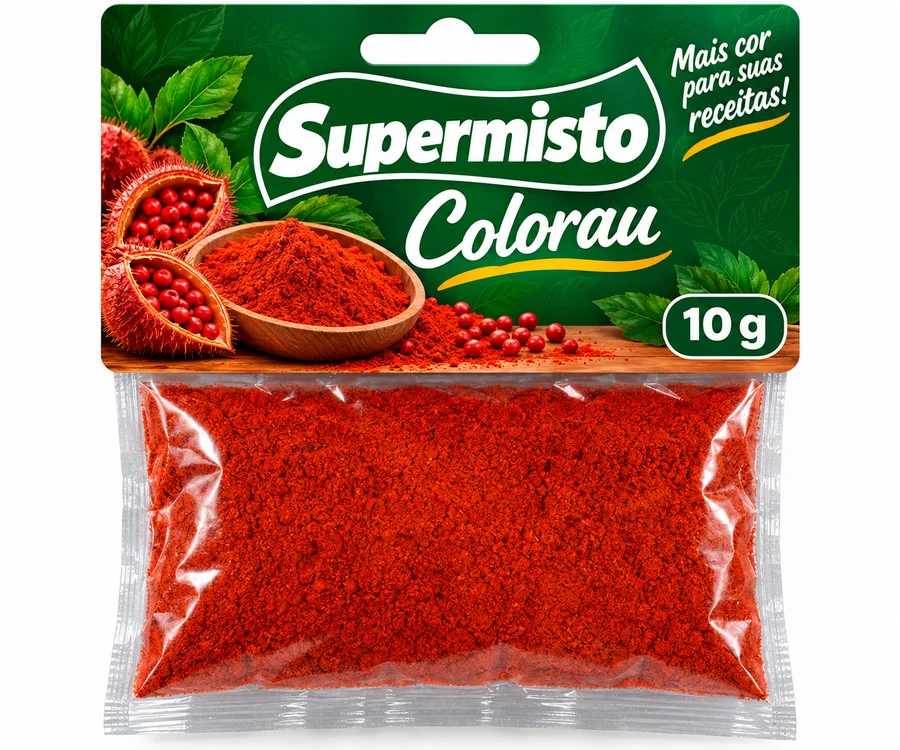
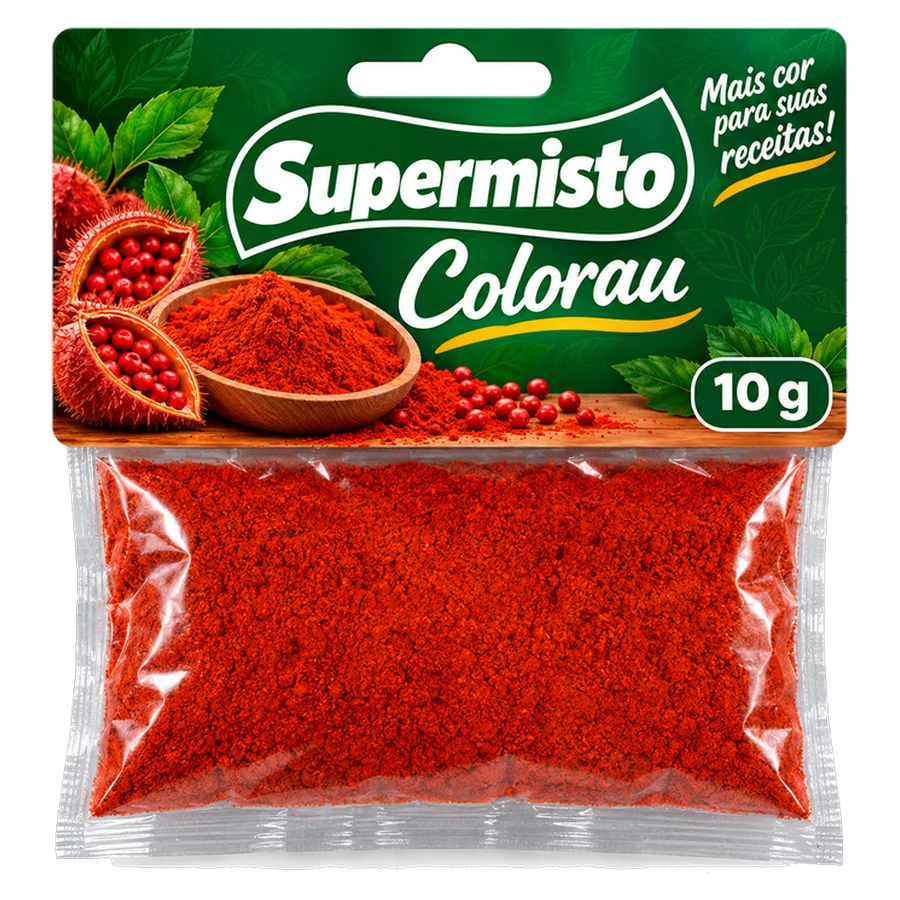
Site Supermisto: fotos dos pacotes no mesmo tamanho
Claude-Session: https://claude.ai/code/session_01UfbvQyVUMZpEq6zNbbPKYT

diff --git a/SITE-SUPERMISTO/estilo.css b/SITE-SUPERMISTO/estilo.css
@@ -708,3 +708,11 @@ body{background:#fff}
   .modal-img .foto-prod,.modal-img svg{max-height:100%;height:auto;width:auto;max-width:100%;border-radius:12px;padding:0}
   .modal-nota{display:none}
 }
+/* fotos reais: mesmo tamanho para todos os pacotes */
+.prod-img:has(.foto-prod){background:radial-gradient(circle at 50% 60%,#FFF4E6 0%,#F4F8F5 72%)}
+.prod-img .foto-prod{padding:10px;background:transparent;object-fit:contain;filter:drop-shadow(0 10px 14px rgba(0,0,0,.18))}
+.modal-img:has(.foto-prod){background:radial-gradient(circle at 50% 55%,#FFF4E6 0%,#F4F8F5 75%)}
+.modal-img .foto-prod{background:transparent;filter:drop-shadow(0 14px 18px rgba(0,0,0,.2))}
+@media (max-width:520px){.prod-img .foto-prod{padding:6px}}
+.prod-img .foto-prod{padding:34px 12px 8px}
+@media (max-width:520px){.prod-img .foto-prod{padding:28px 6px 4px}}
